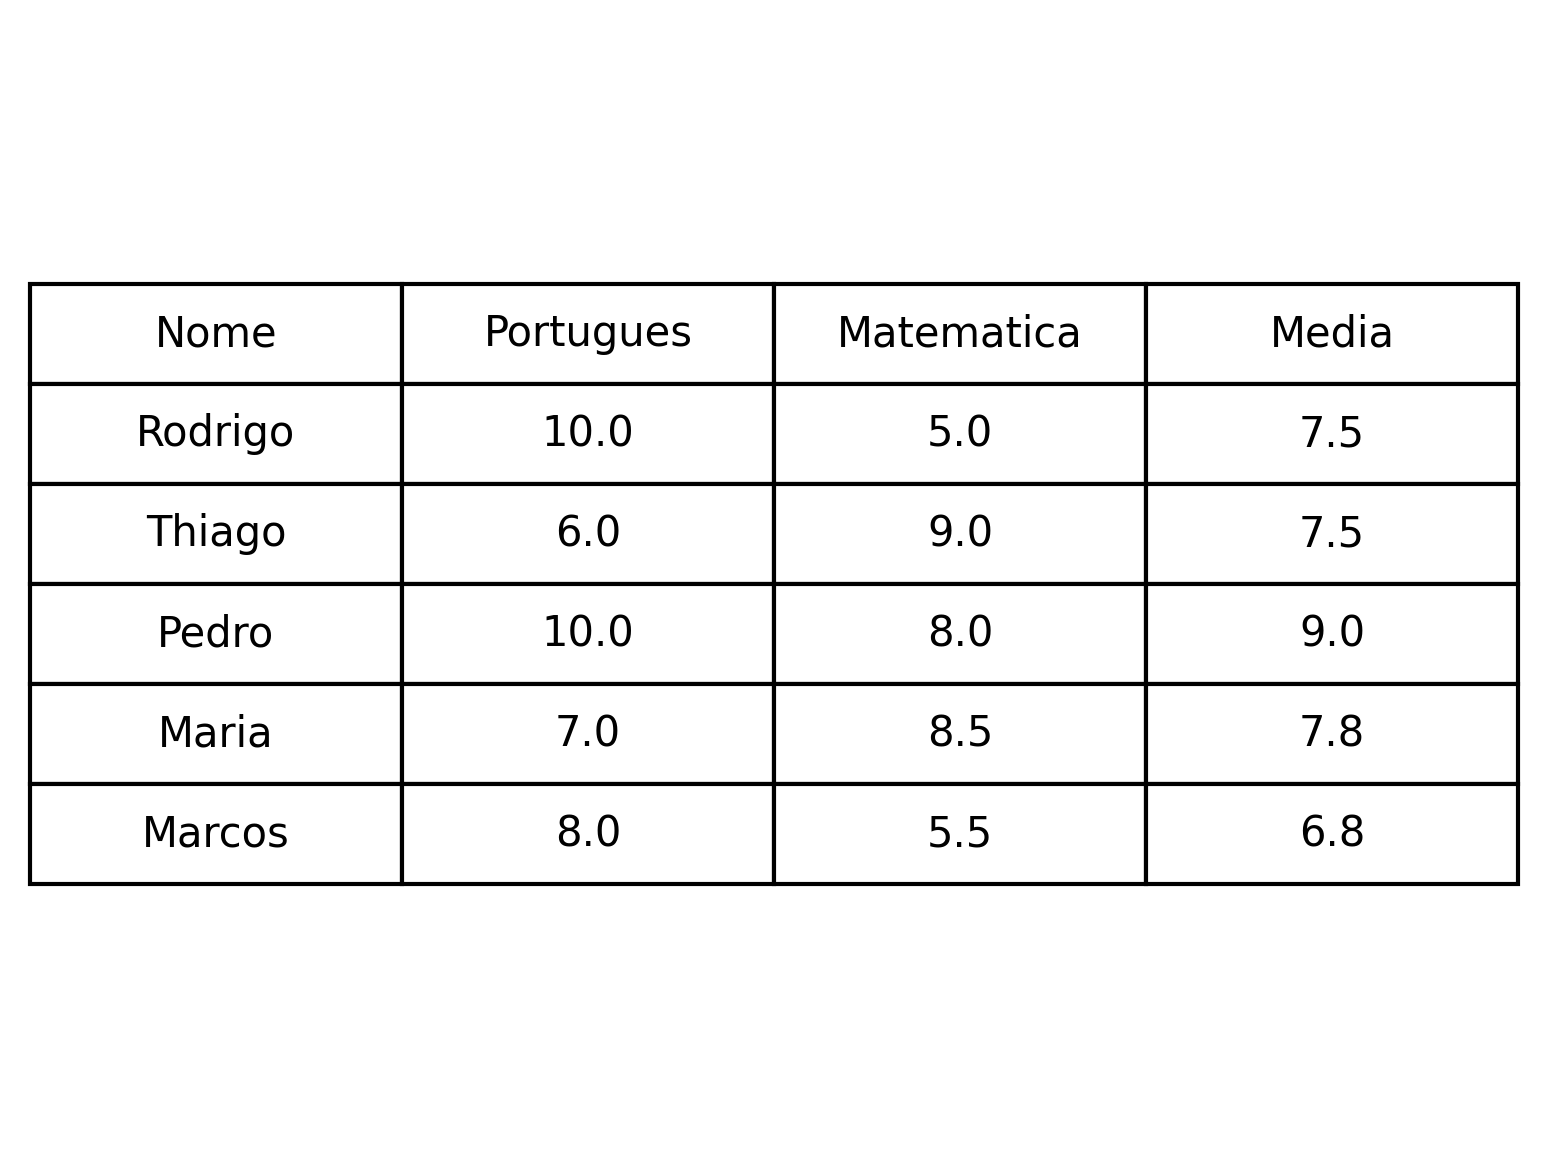
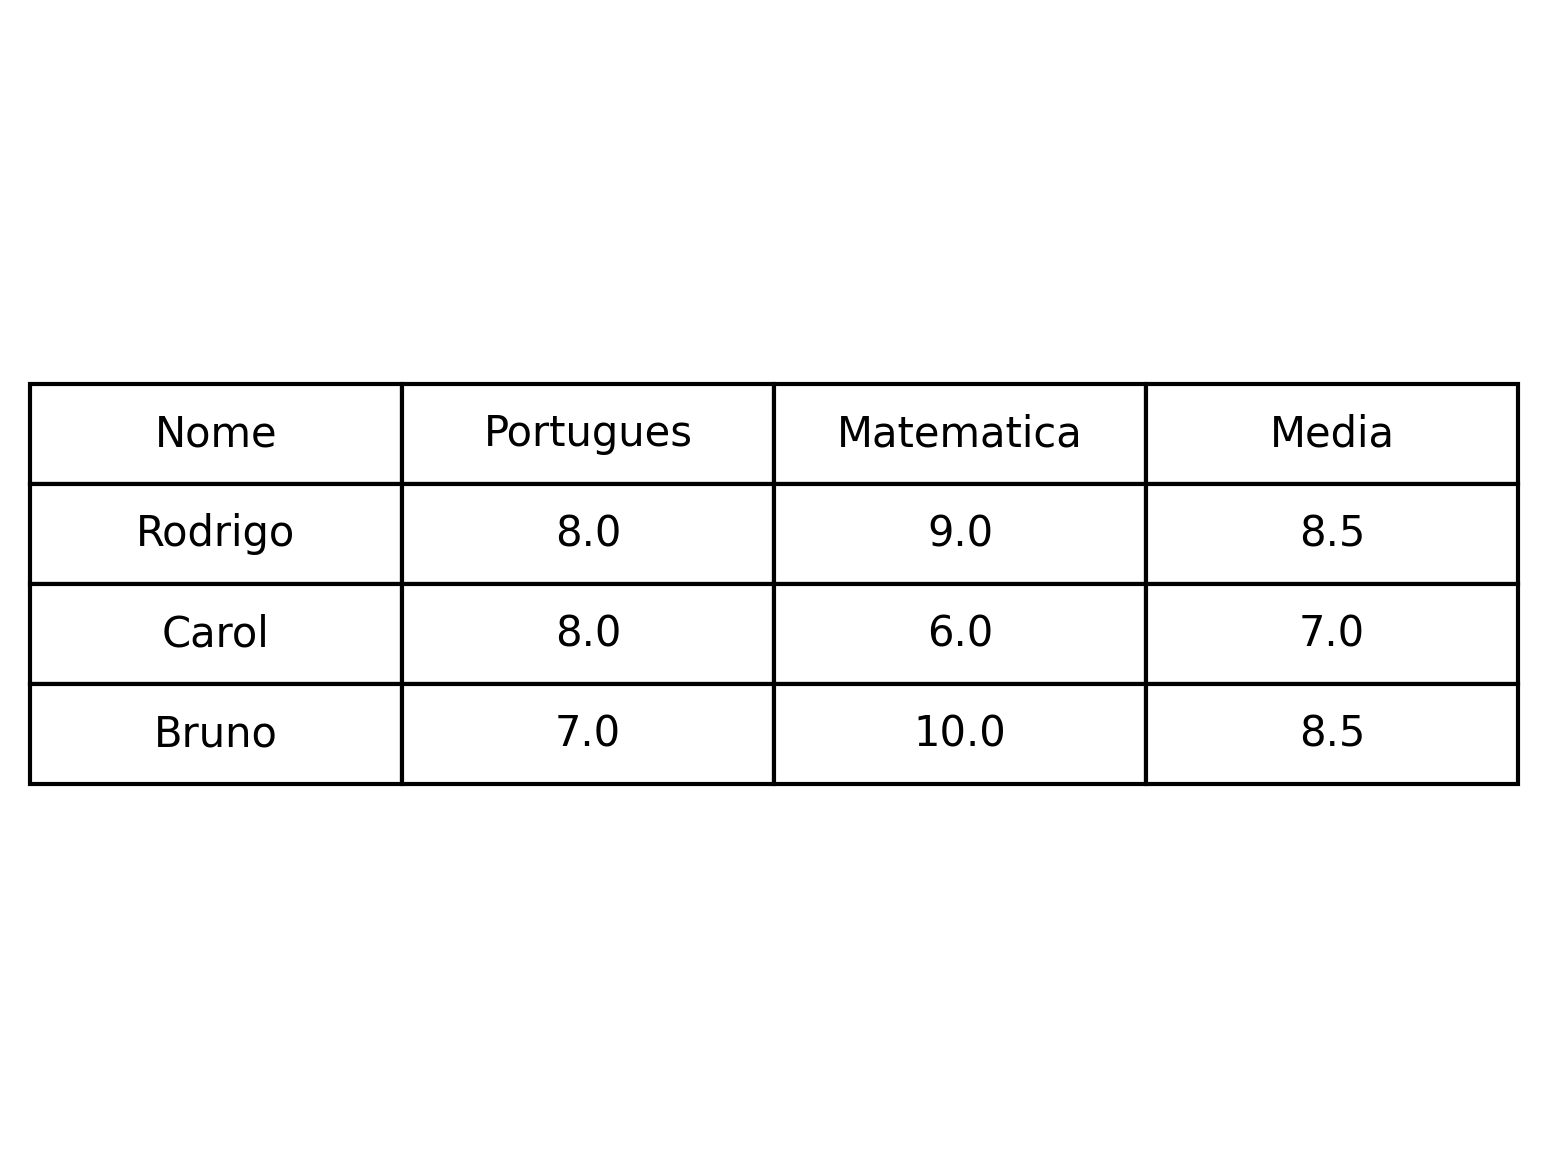
branch finalizada

diff --git a/main.py b/main.py
@@ -263,6 +263,9 @@ def media(n1, n2):
 #Programa principal
 
 while True:
+
+    os.makedirs('dados', exist_ok=True)
+    os.makedirs('arquivos/imagens', exist_ok=True)
     
     opc = menu()# Entrada para opções
 
